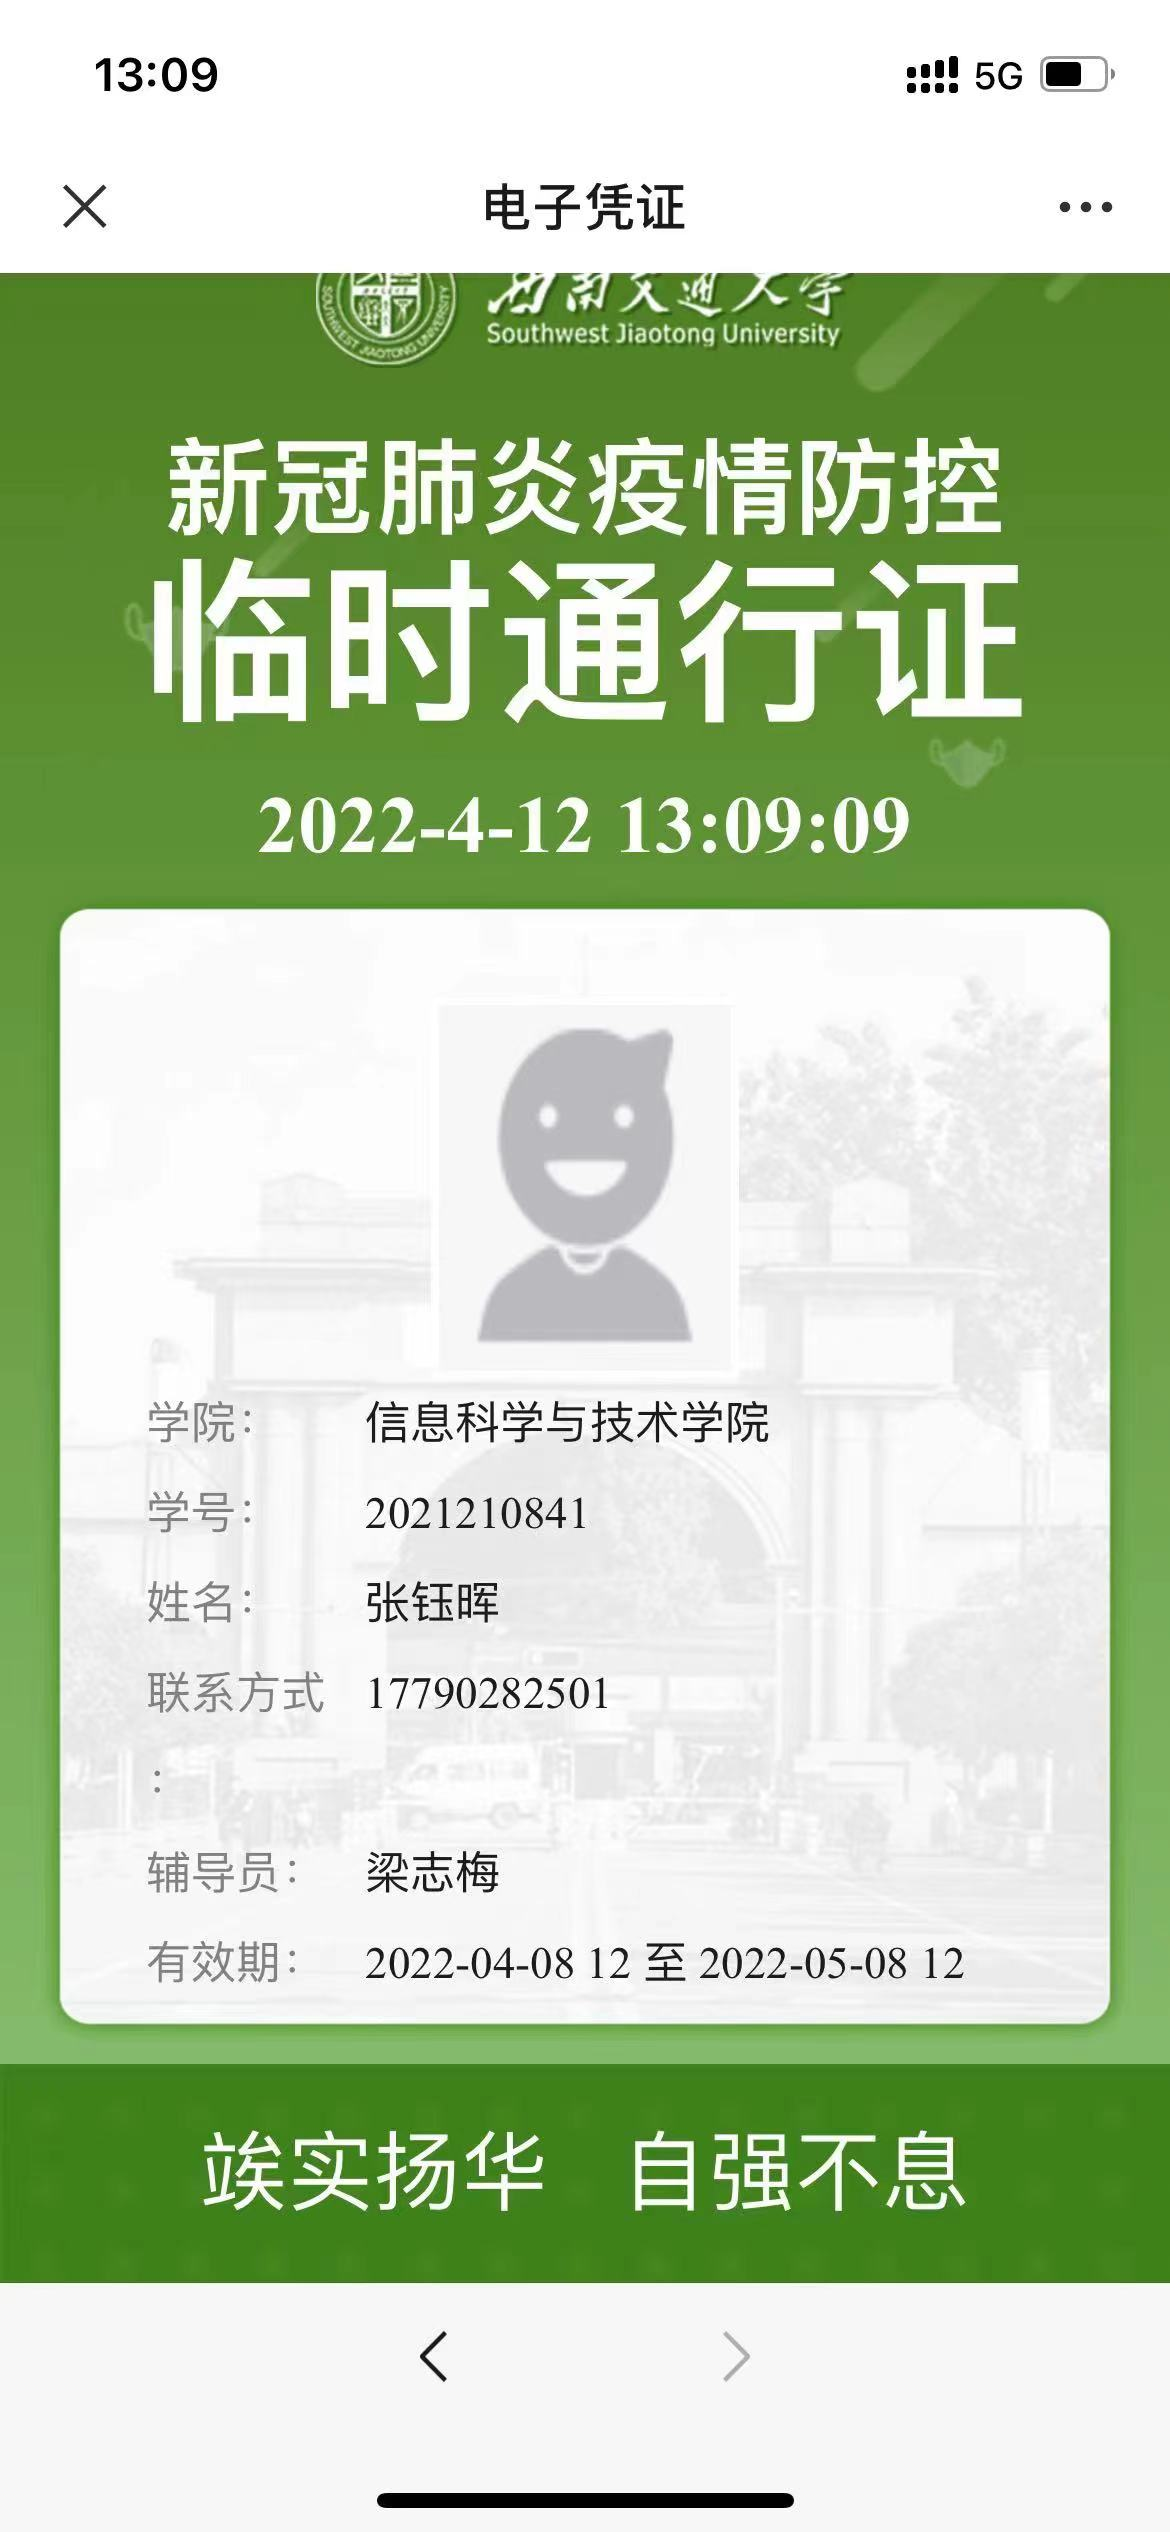
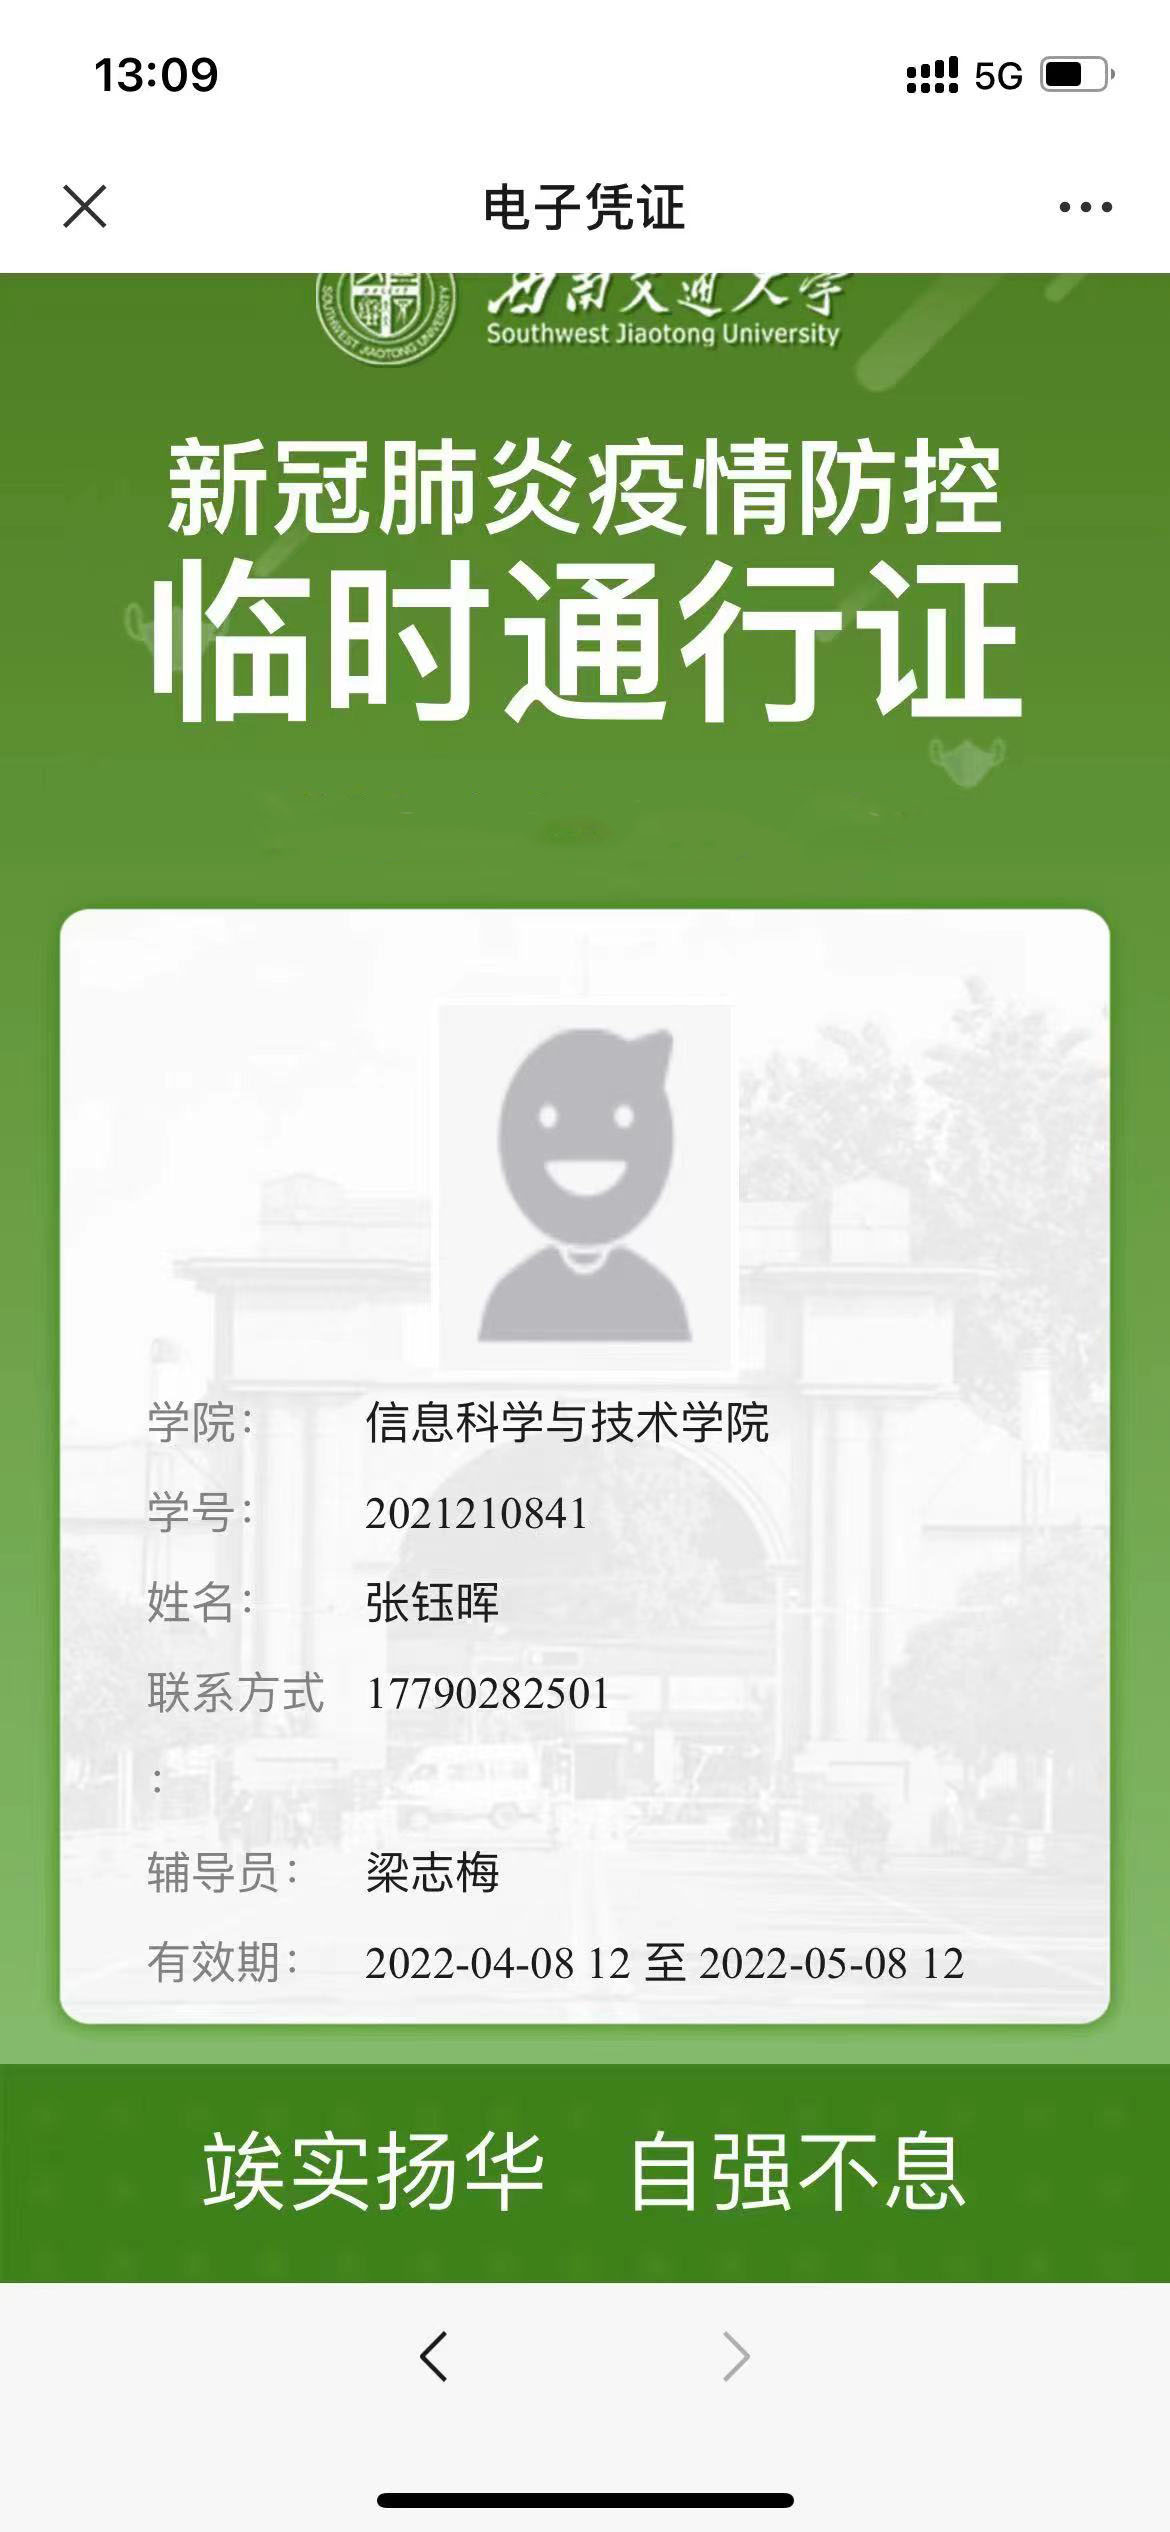
静态测试页面

Changed region(s): [[0.2154, 0.312, 0.8, 0.3432]]

diff --git a/test.html b/test.html
@@ -7,17 +7,34 @@
     <meta name="viewport" content="width=device-width, initial-scale=1.0">
     <title>card</title>
     <style>
+        body {
+            background: url(./card1.jpg) no-repeat;
+        }
+
         div {
-            display: flex;
-            flex: 1;
+            /* color: #5c9135;
+             */
+            width: 700px;
+            height: 100px;
+            color: #fff;
+            font-family: 'Times New Roman', Times, serif;
+            font-size: 80px;
+            position: absolute;
+            text-indent: 2;
+            left: 248px;
+            top: 782px;
         }
     </style>
 </head>
 
 <body>
     <div>
-        <img src="./card.jpg" alt="">
     </div>
+    <script>
+        var myDate = new Date();
+        var date = myDate.toLocaleString().replace(/\//g, "-");
+        document.querySelector('div').innerHTML = date
+    </script>
 </body>
 
 </html>
